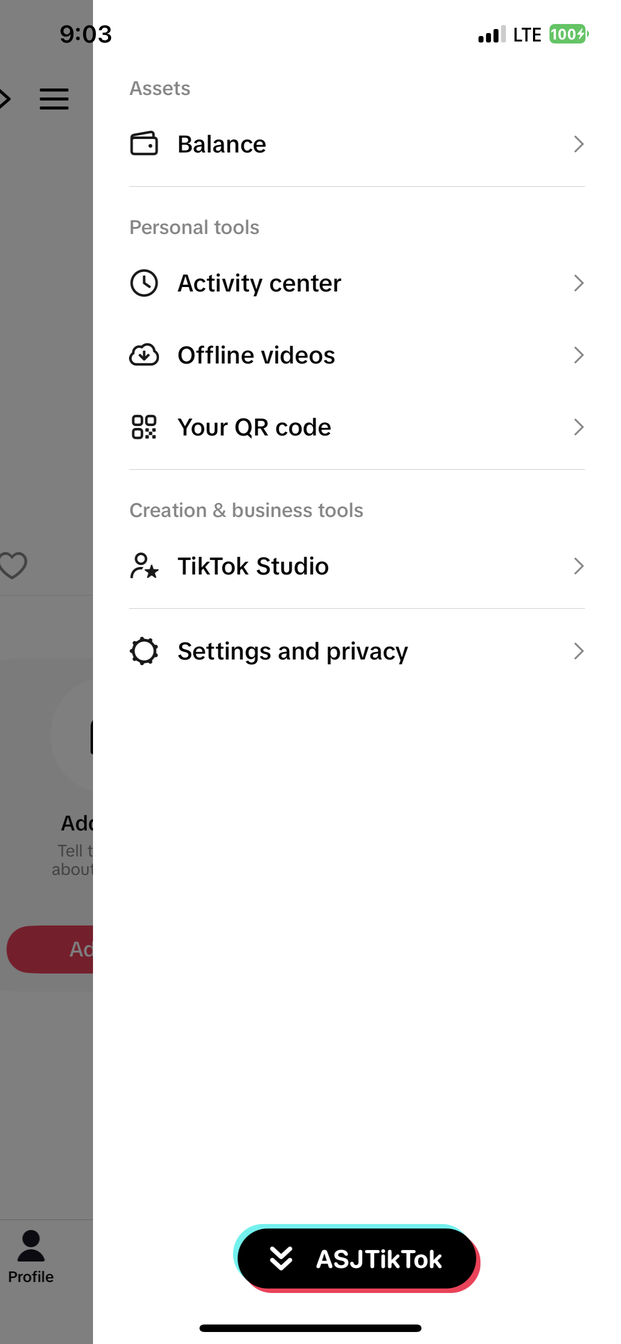
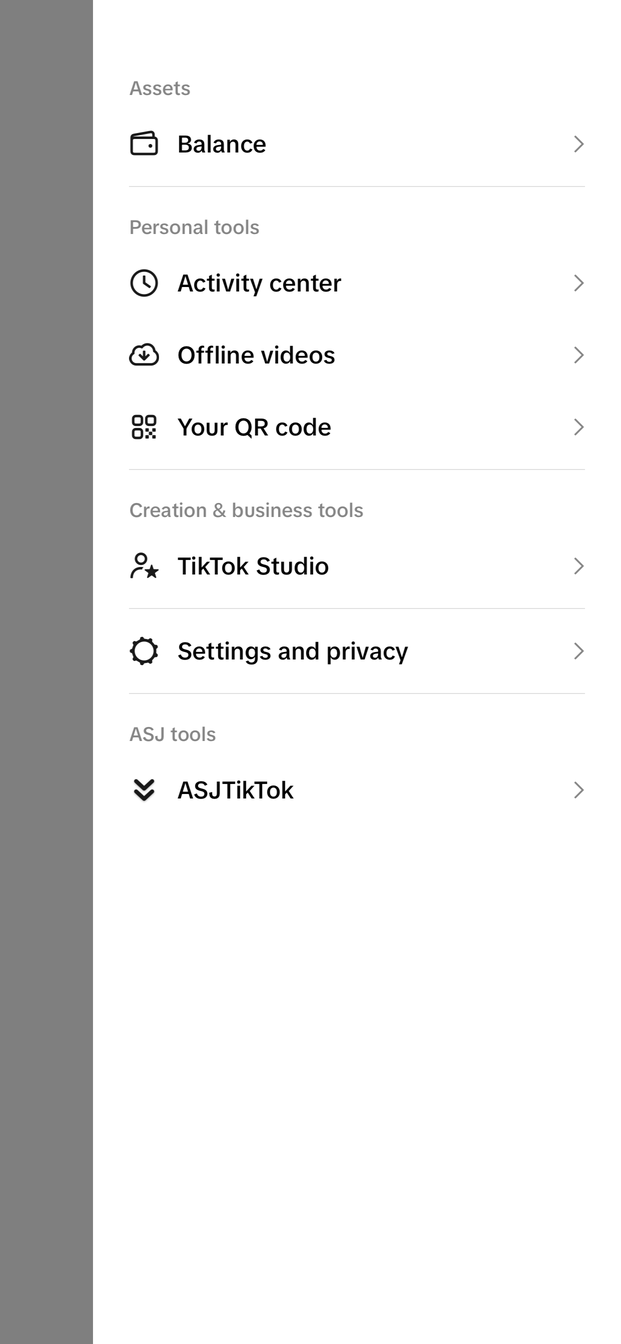
ASJTok's first Sileo screenshot shows its row under ASJ tools in the profile menu (the floating button is gone)

diff --git a/depictions/asjtiktok.html b/depictions/asjtiktok.html
@@ -29,7 +29,7 @@
   <p class="note">Open it from its own row in the profile menu, under ASJ tools. Its options are in the long-press menu too.</p>
 
   <div class="shots">
-    <img src="../screenshots/entry.png" alt="The ASJTikTok button in your profile menu" loading="lazy">
+    <img src="../screenshots/entry.png" alt="The ASJTikTok row in your profile menu, under ASJ tools" loading="lazy">
     <img src="../screenshots/settings.png" alt="The settings panel" loading="lazy">
     <img src="../screenshots/feed.png" alt="Feed options — region, ads, LIVE" loading="lazy">
     <img src="../screenshots/playback.png" alt="Playback options" loading="lazy">
